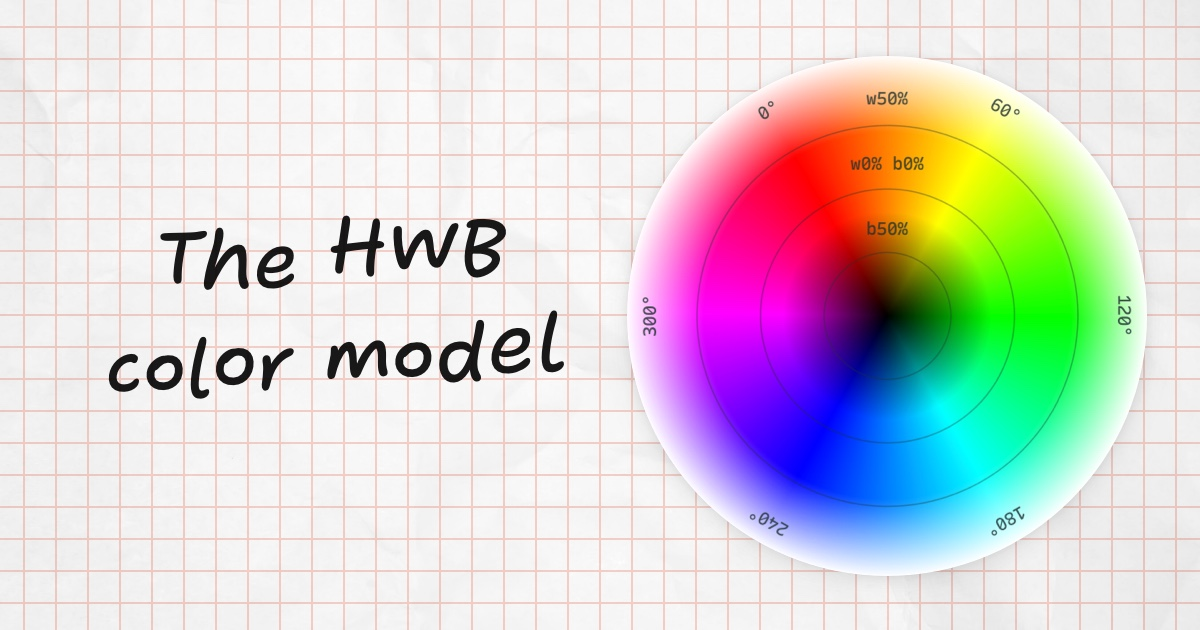
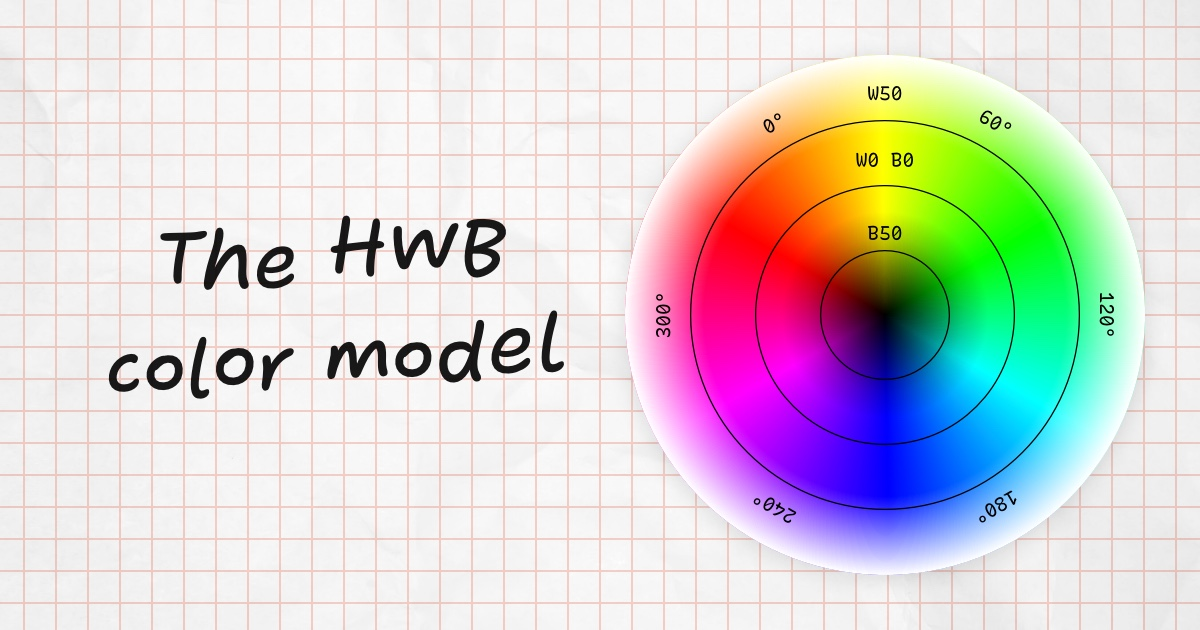
improve: Remove HwbCircle.vue and replace with image, update images, and image in article

Changed region(s): [[0.5242, 0.0905, 0.9558, 0.9048]]

diff --git a/content/post/hwb-colors.md b/content/post/hwb-colors.md
@@ -44,8 +44,9 @@ You can also add opacity like this `hwb(0deg 0% 0% / .5)`
 
 :::
 :::GridUnit
-::::HwbCircle 
-::::
+<!-- ::::HwbCircle 
+:::: -->
+![image](/posts/hwb-colors/hwb-colors-model.webp)
 :::
 ::
 
